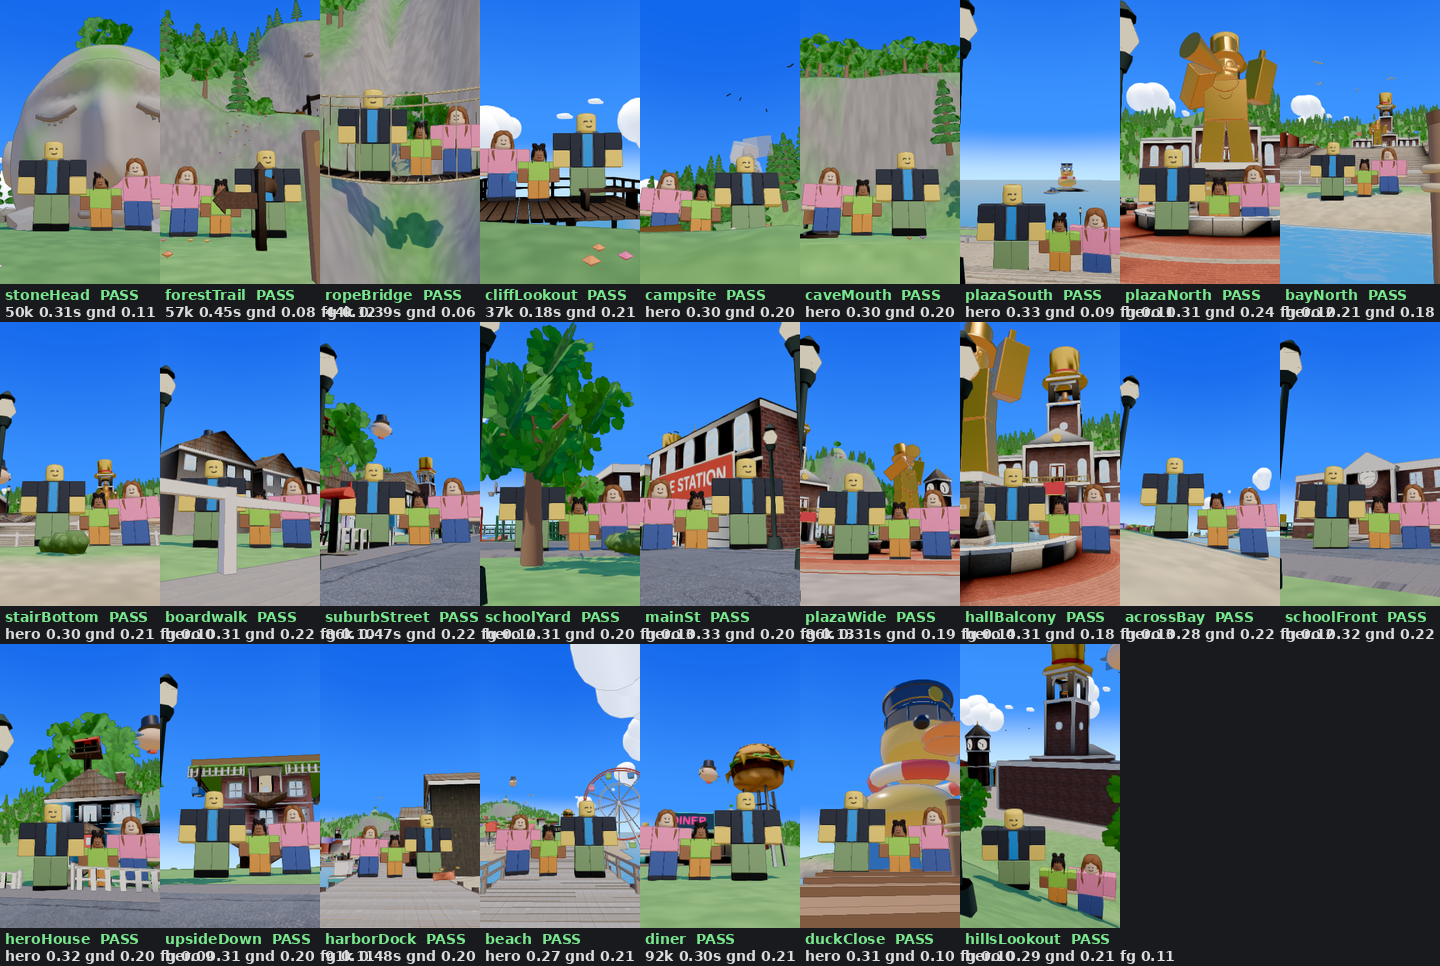
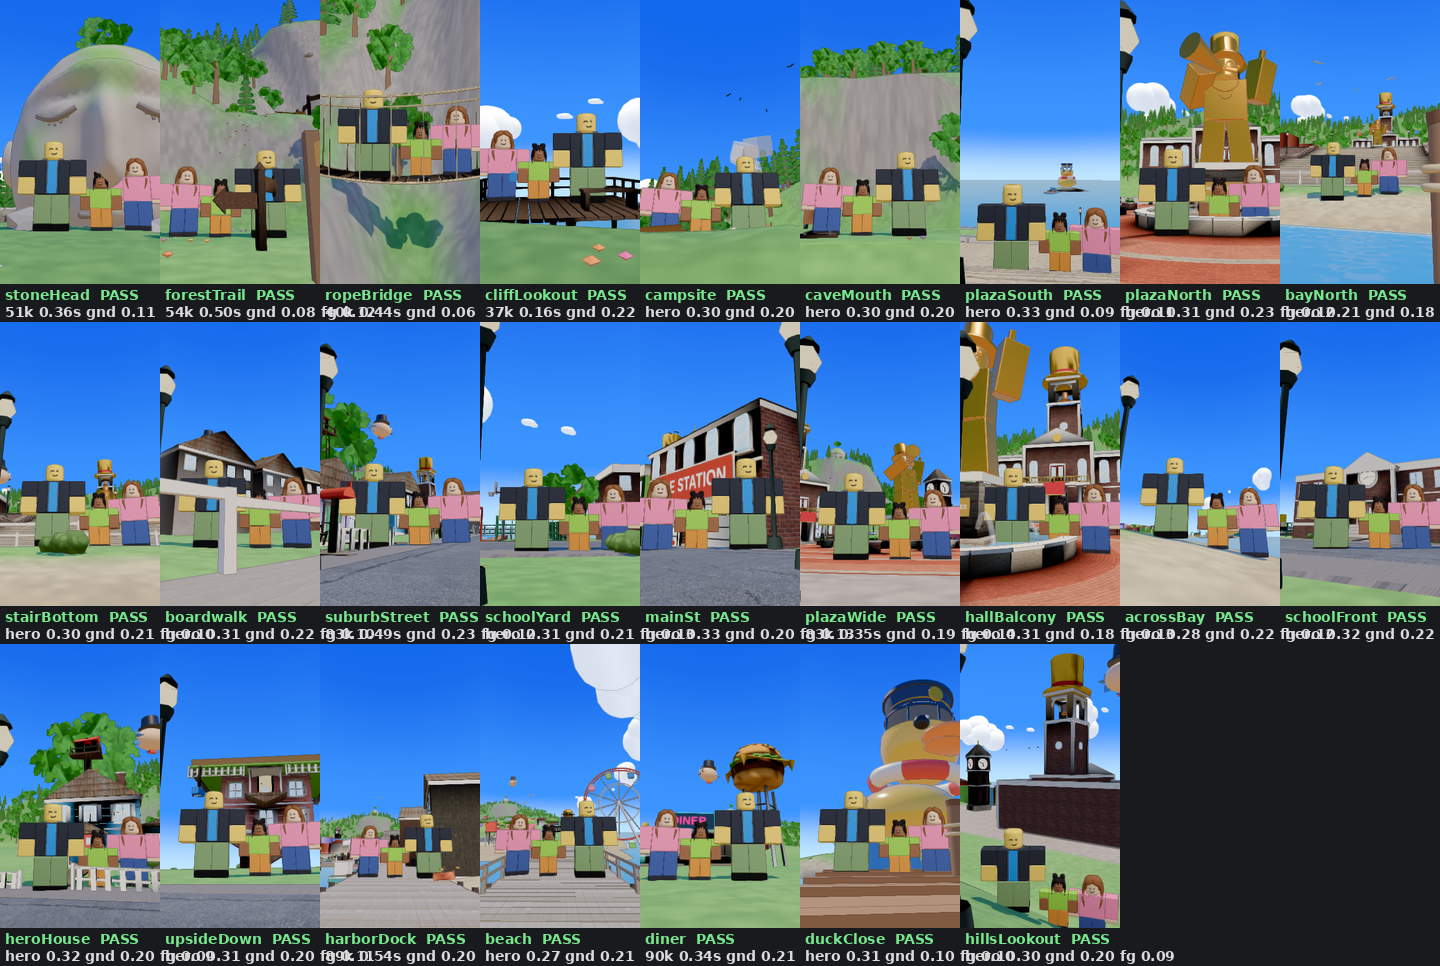
City 1E: farm gate (all key art + wild/suburb rows + time of day, look B) with CC0 textures + trees (run 45771879886)

diff --git a/assets/LICENSES.md b/assets/LICENSES.md
@@ -26,9 +26,9 @@ They are downloaded by the farm job `.github/workflows/assets.yml` into a cache 
 | city_tree | Fir Sapling (`fir_sapling`) | model (glTF) | 25423602 | https://polyhaven.com/a/fir_sapling |
 | city_bush | Shrub Sorrel 01 (`shrub_sorrel_01`) | model (glTF) | 1186333 | https://polyhaven.com/a/shrub_sorrel_01 |
 | city_rock | Boulder 01 (`boulder_01`) | model (glTF) | 5771986 | https://polyhaven.com/a/boulder_01 |
-| city_tree_leafy | Outdoor Table Chair Set 01 (`outdoor_table_chair_set_01`) | model (glTF) | 1242380 | https://polyhaven.com/a/outdoor_table_chair_set_01 |
-| city_tree_pine | Wooden Display Shelves 01 (`wooden_display_shelves_01`) | model (glTF) | 471129 | https://polyhaven.com/a/wooden_display_shelves_01 |
-| city_bush_round | Grass Medium 02 (`grass_medium_02`) | model (glTF) | 801474 | https://polyhaven.com/a/grass_medium_02 |
+| city_tree_pine | Pine Sapling Small (`pine_sapling_small`) | model (glTF) | 21891339 | https://polyhaven.com/a/pine_sapling_small |
+| city_tree_fir | Fir Sapling (`fir_sapling`) | model (glTF) | 25423602 | https://polyhaven.com/a/fir_sapling |
+| city_bush_round | Shrub 03 (`shrub_03`) | model (glTF) | 1628793 | https://polyhaven.com/a/shrub_03 |
 
 ## HDRI backdrops (Kit 1, `assets/hdri/`, committed; 1k)
 
